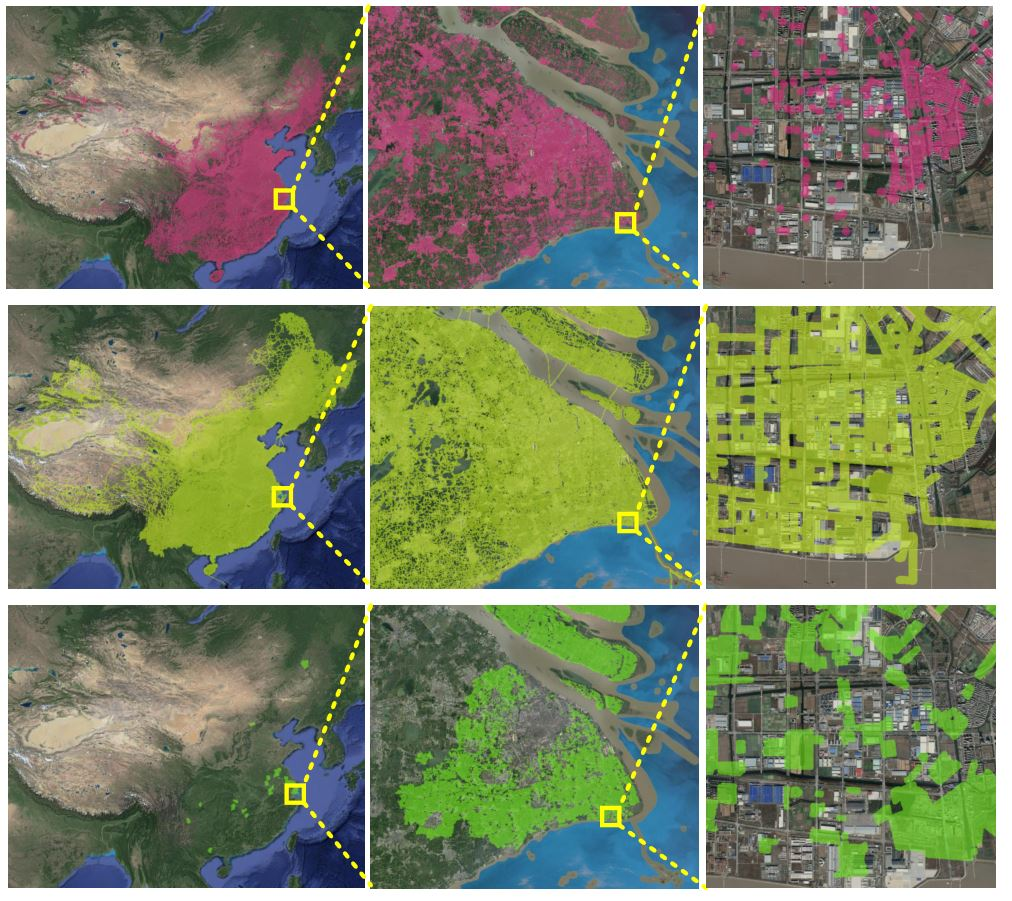
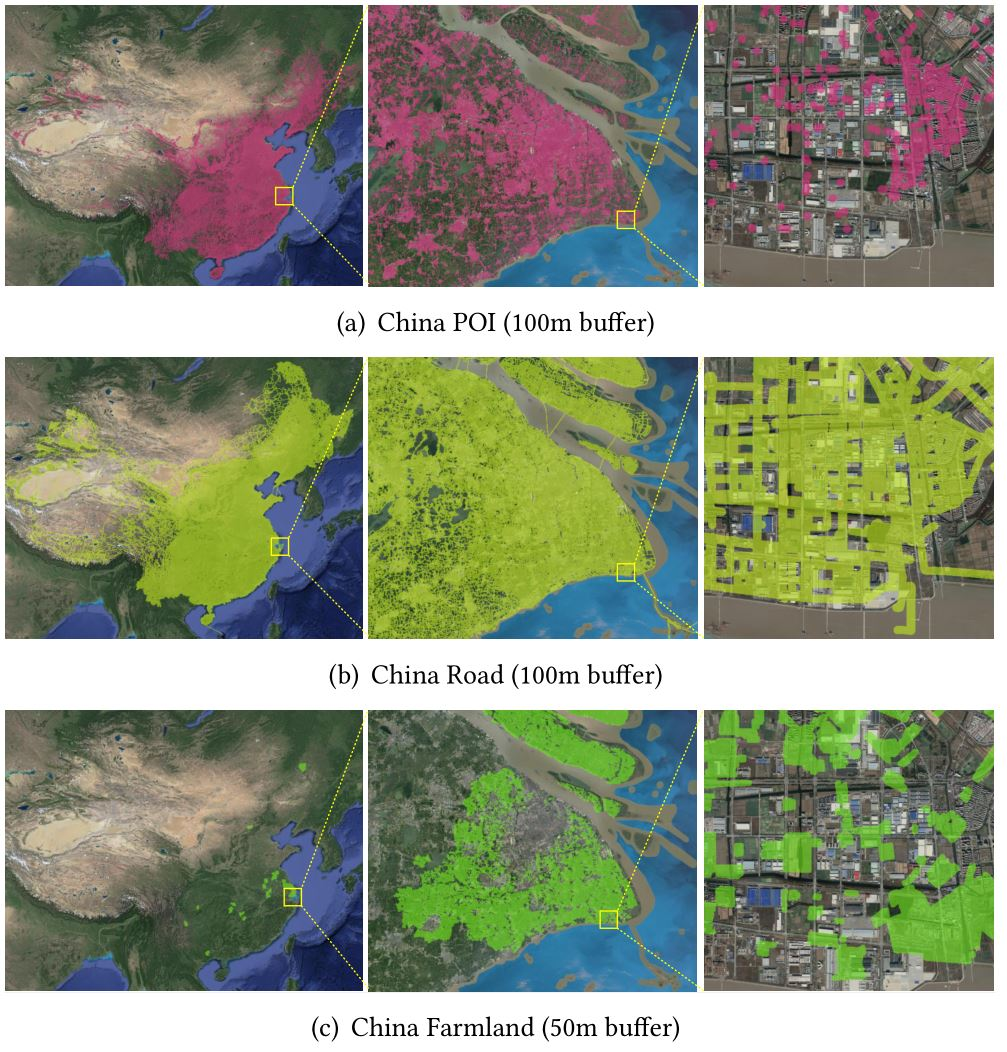
update

diff --git a/README.md b/README.md
@@ -24,7 +24,7 @@ To address the scale issue for analysis of large-scale spatial vector data, we p
 | China_POI      | Point      | 20,258,450 | 20,258,450 points    |
 | China_Farmland | Polygon    | 10,520,644 | 133,830,561 edges    |
 
-***Tab2. Datasets of Demo 2&3:  Spain Datasets from [OpenStreetMap](https://download.geofabrik.de/europe/spain-latest.osm.pbf)*** ([Classification standard](https://wiki.openstreetmap.org/wiki/Map_Features))
+***Tab2. Datasets of Demo 2:  Spain Datasets from [OpenStreetMap](https://download.geofabrik.de/europe/spain-latest.osm.pbf)*** ([Classification standard](https://wiki.openstreetmap.org/wiki/Map_Features))
 
 | Name                                  | Type       | Records   | Size                |
 | ------------------------------------- | ---------- | --------- | ------------------- |
@@ -69,7 +69,7 @@ To address the scale issue for analysis of large-scale spatial vector data, we p
 
 
 
-##Application Scenarios
+## Application Scenarios
 
 ### [Demo 1](http://www.higis.org.cn:8080/hibuffer10million/) (Buffer analysis of 10-million-scale China datasets)
 
@@ -77,9 +77,9 @@ The 10-million-scale datasets (see Tab 1) used in the demonstration are provided
 
 ![fig3](./figures/fig3.JPG)
 
-*Fig 3. Buffer analysis results of demo 1*
+*Fig 3. Buffer analysis results of China datasets*
 
-###[Demo 2](http://www.higis.org.cn:8080/hibo/) (Overlay analysis for housing site selection in Spain)
+### [Demo 2](http://www.higis.org.cn:8080/hibo/) (Overlay analysis for housing site selection in Spain)
 
 We have designed a housing site selection scenario for VOC based overlay analysis. Suppose that a new immigrant in Spain wants to choose a place to live which meets the following conditions: 1) convenient to traffic (within 500m from Highways); 2) convenient for children education (within 200m from Education amenities); 3) convenient to the medical care (within 2000m from Healthcare amenities); 4) near to leisure places (within 1000m from Entertainment, Arts & Culture amenities or Waterways but not in Water Area); 5) quiet (at least 300m away from Railways). The conditions can be translated into the following expression. Enter the expression and click the Create-Overlay-Layer button (Fig 4), then the result layer will be added to the map in real time. Fig 5 shows the analysis results, in which the red areas are the recommended housing places for the immigrant. 
 
